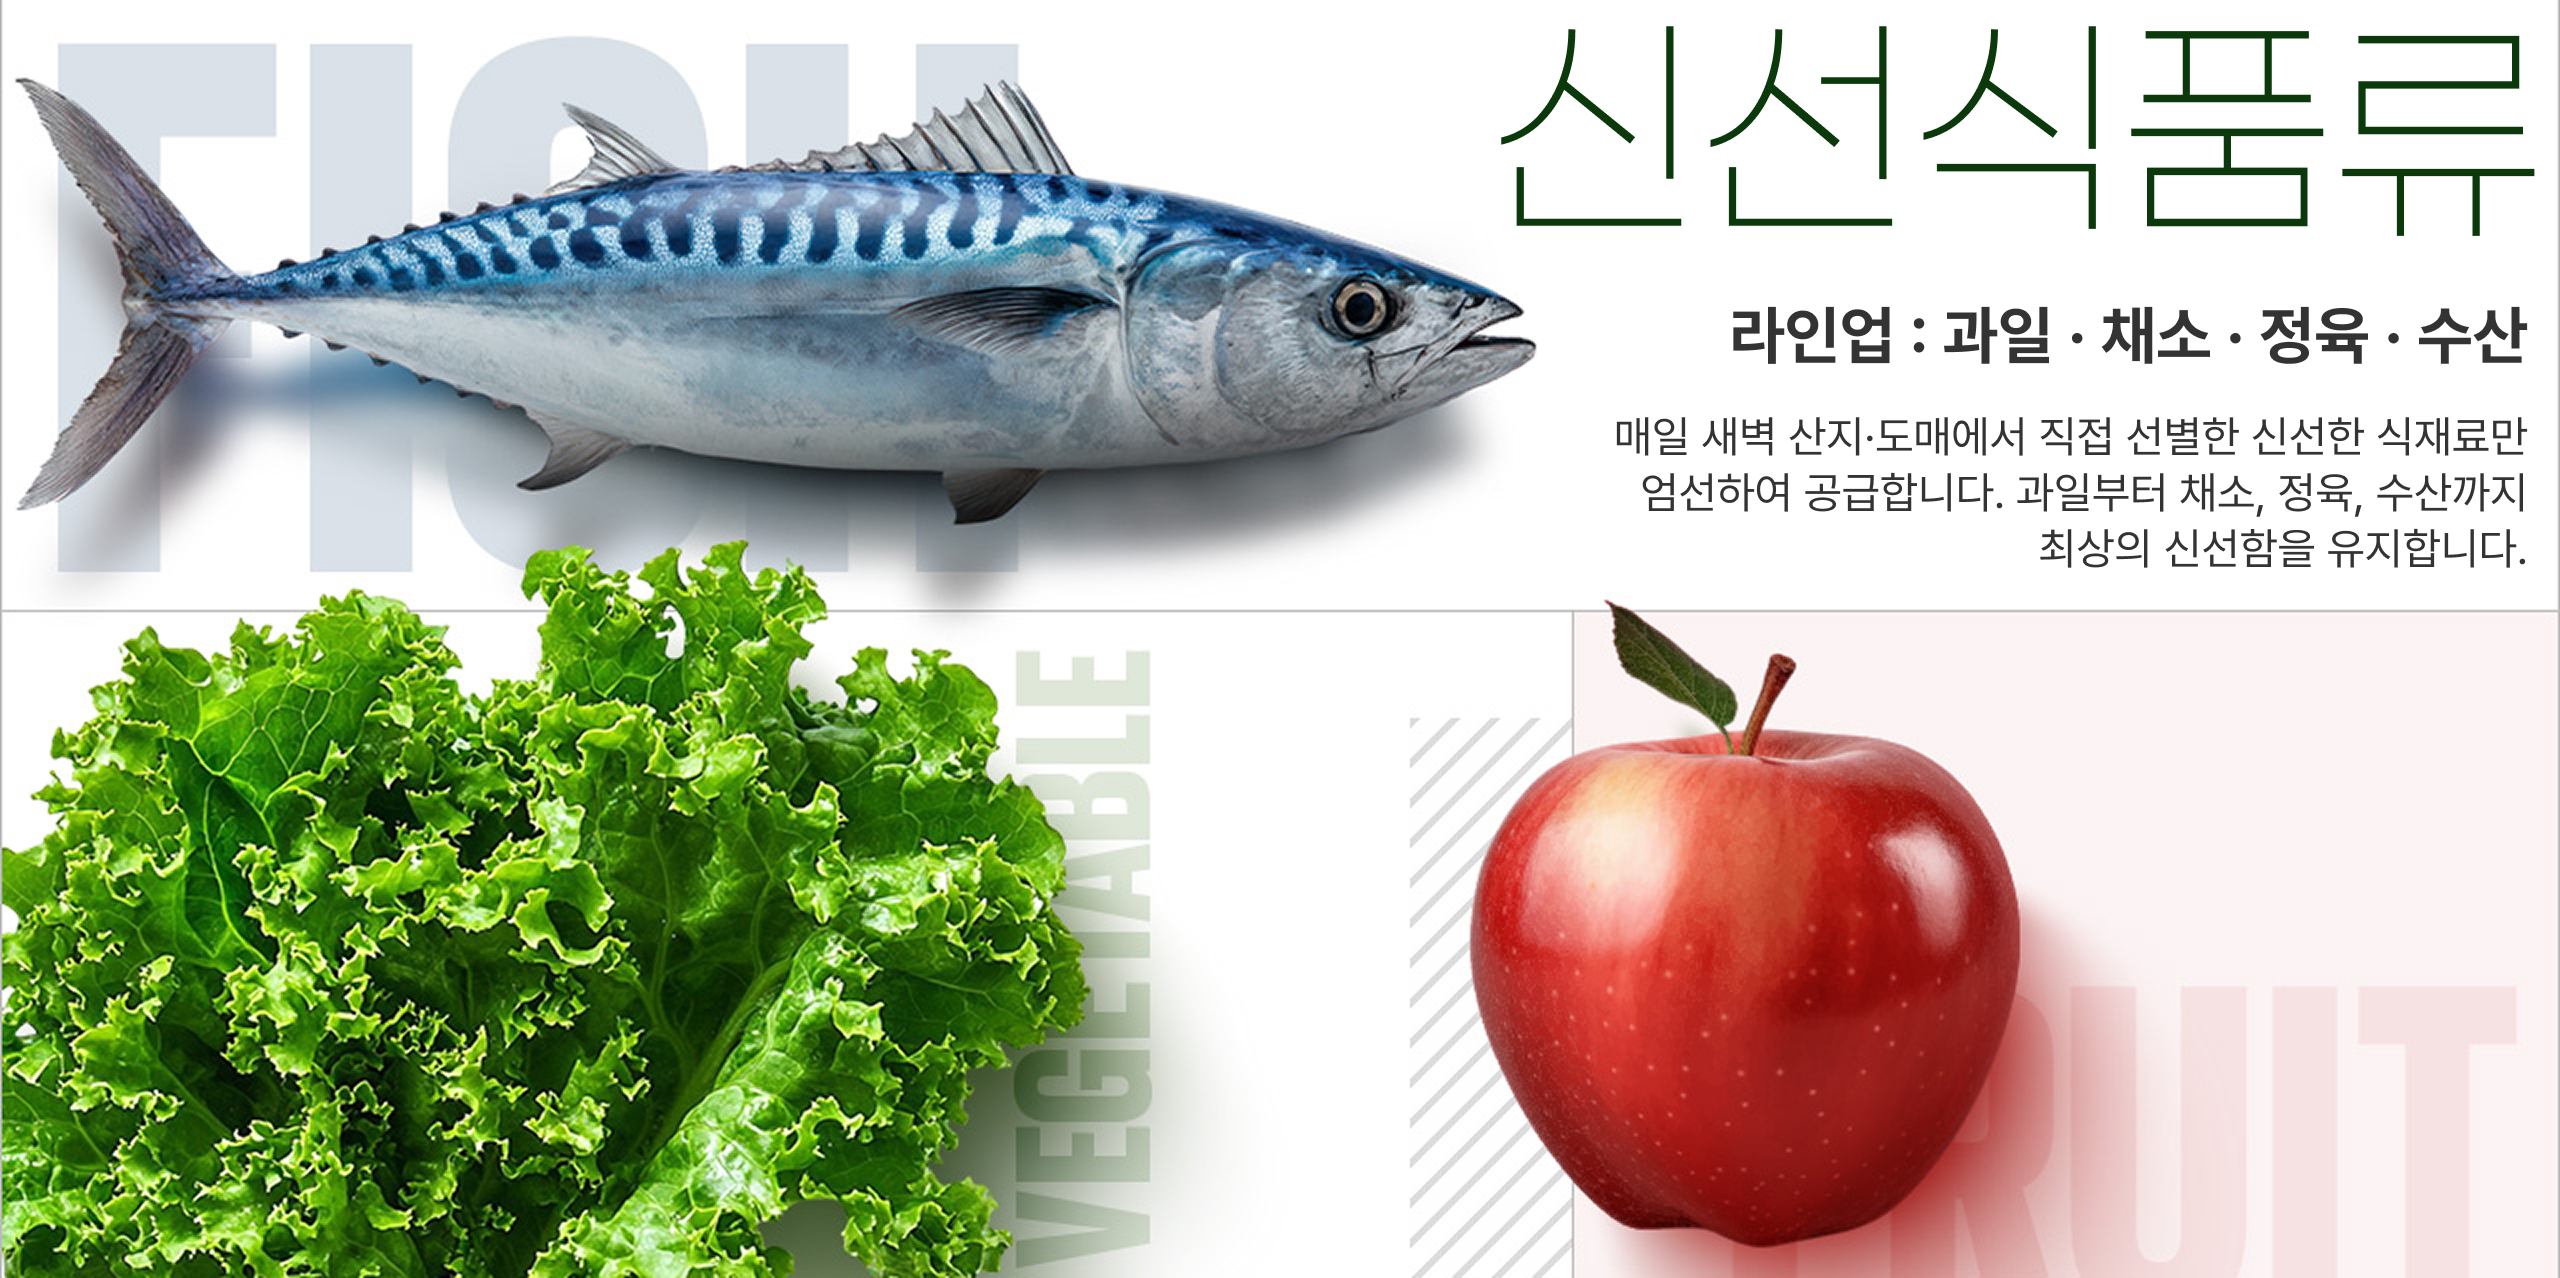
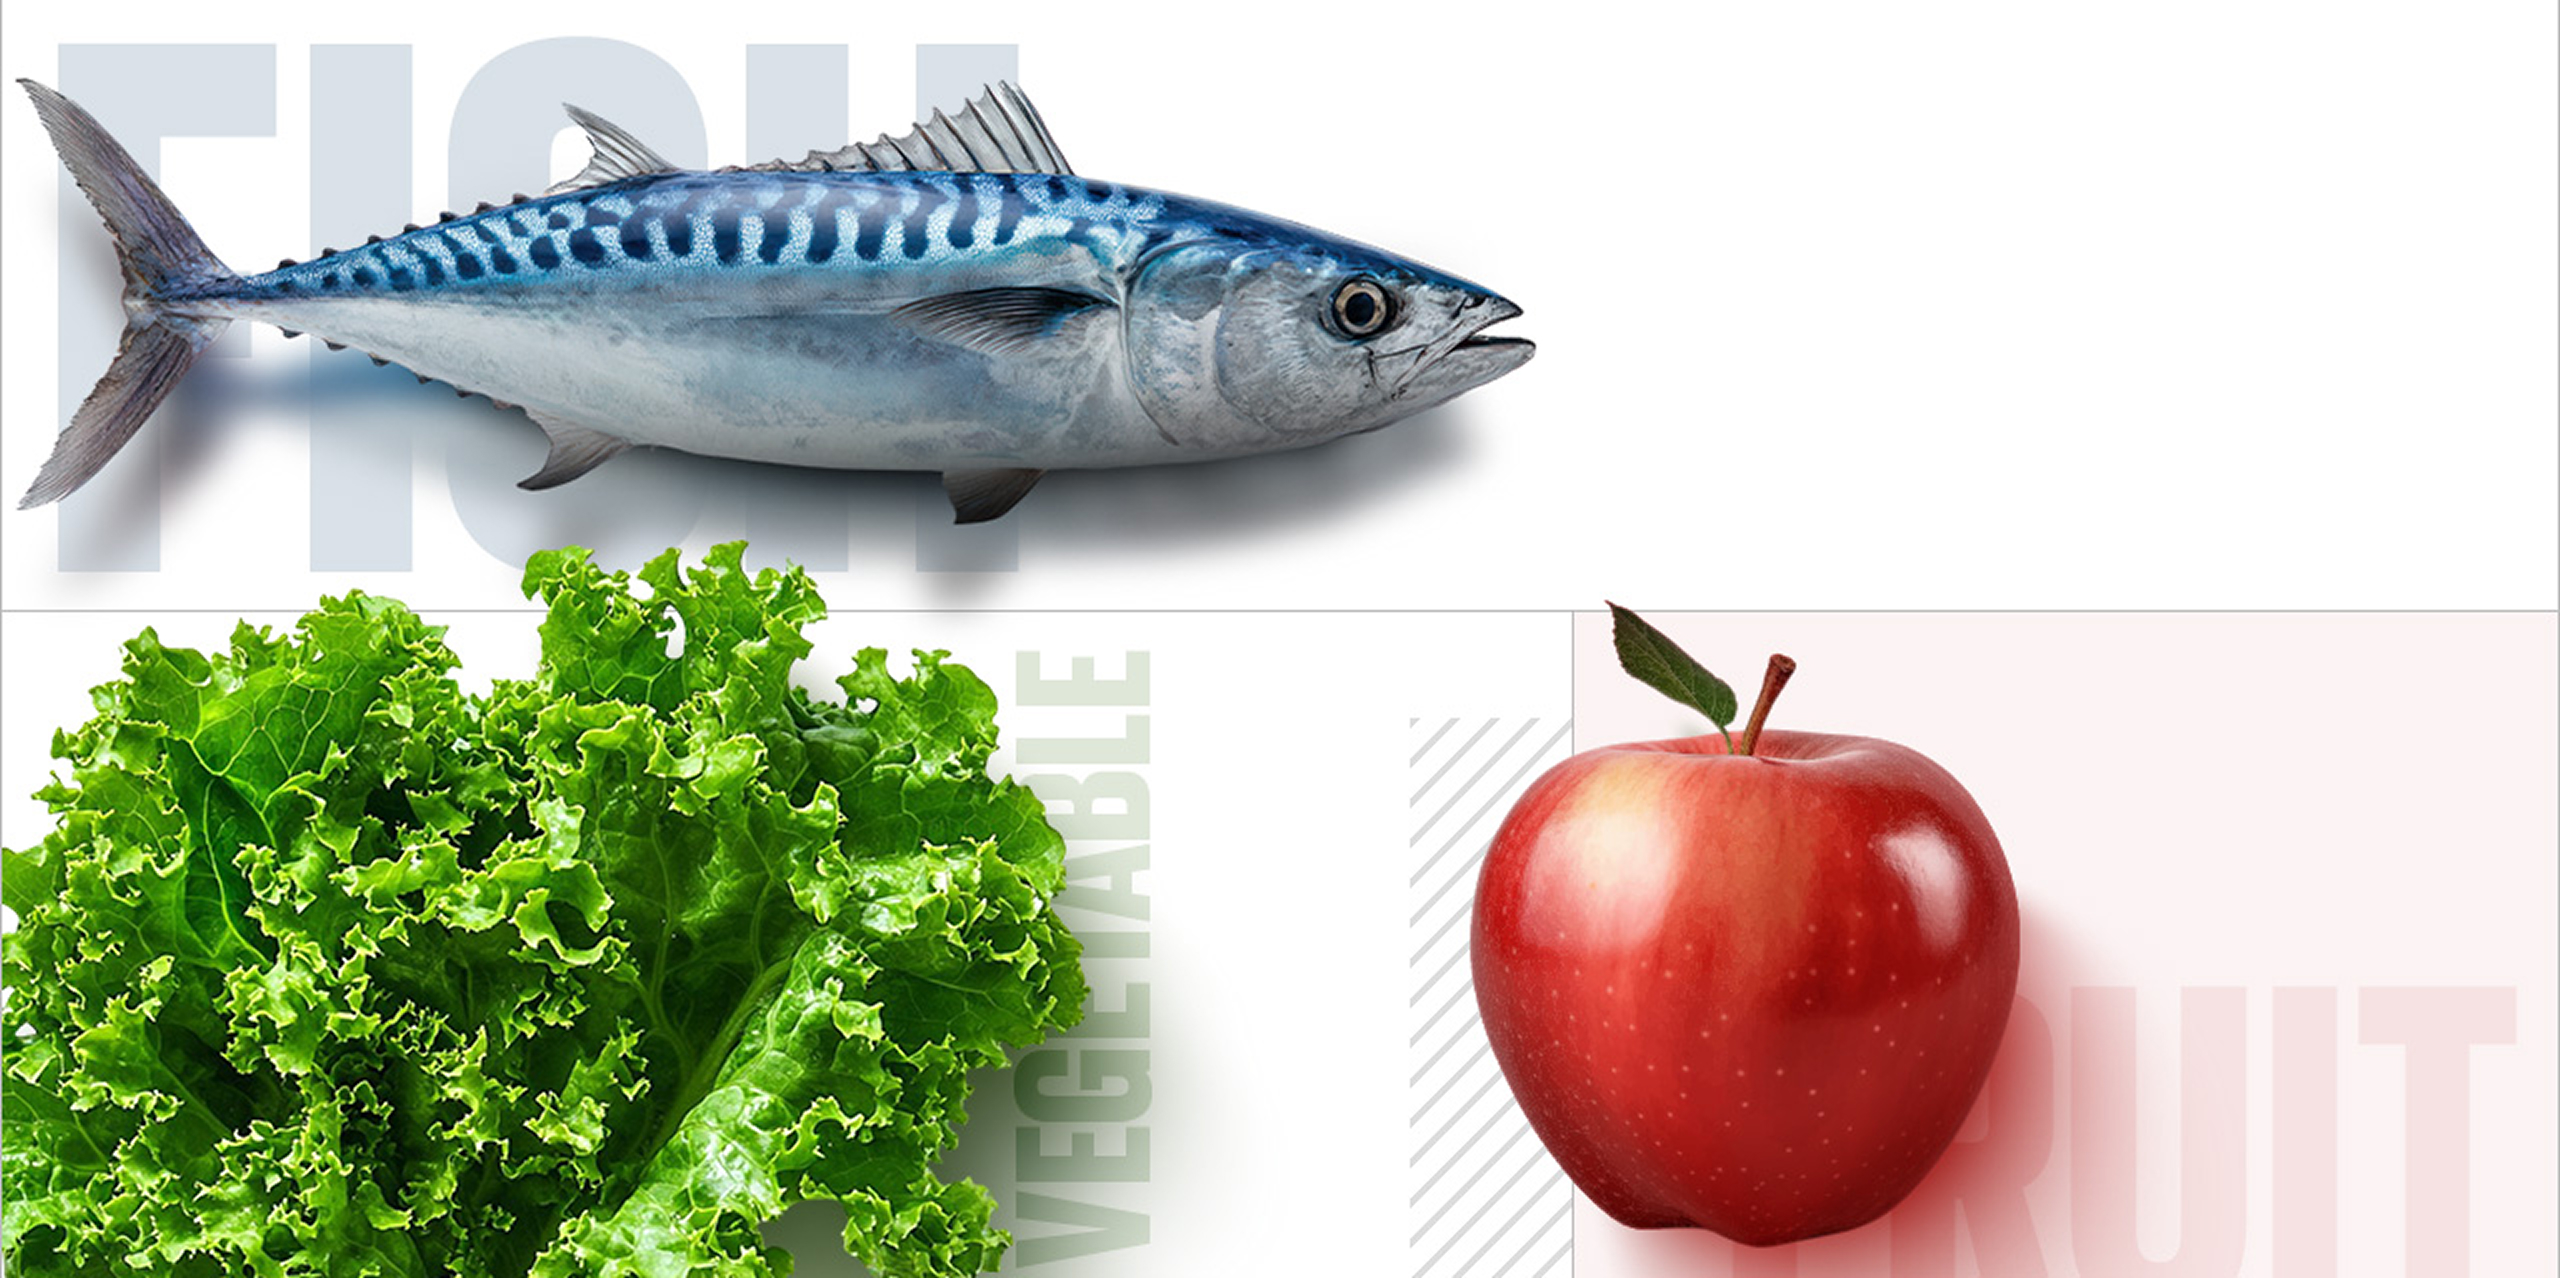
수정

diff --git a/work/chuckchuck/index.html b/work/chuckchuck/index.html
@@ -198,25 +198,82 @@
                 <div class="inner" data-aos="fade-up">
 					<div class="swiper ms3_swiper">
 						<div class="swiper-wrapper">
-							<div class="swiper-slide item">
-								<img src="img/ms3_slide1_pc.jpg" alt="" class="img pc">
-								<img src="img/ms3_slide1_mob.jpg" alt="" class="img tablet">
+							<div class="swiper-slide item item1">
+								<div class="bgbox">
+									<img src="img/ms3_slide1_pc.jpg" alt="" class="img pc">
+									<img src="img/ms3_slide1_mob.jpg" alt="" class="img tablet">
+								</div>
+								<div class="txtbox">
+									<p class="tit">신선식품류</p>
+									<p class="sub">라인업 : 과일 · 채소 · 정육 · 수산</p>
+									<p class="desc">
+										매일 새벽 산지·도매에서 직접 선별한 신선한 식재료만
+										<br>
+										엄선하여 공급합니다. 과일부터 채소, 정육, 수산까지 
+										<br>
+										최상의 신선함을 유지합니다.
+									</p>
+								</div>
 							</div>
-							<div class="swiper-slide item">
-								<img src="img/ms3_slide2_pc.jpg" alt="" class="img pc">
-								<img src="img/ms3_slide2_mob.jpg" alt="" class="img tablet">
+							<div class="swiper-slide item item2">
+								<div class="bgbox">
+									<img src="img/ms3_slide2_pc.jpg" alt="" class="img pc">
+									<img src="img/ms3_slide2_mob.jpg" alt="" class="img tablet">
+								</div>
+								<div class="txtbox">
+									<p class="tit">밀키트</p>
+									<p class="sub">라인업 : 에프요리 · 국밥 · 불고기 · 뚝배기류</p>
+									<p class="desc">
+										전문 셰프 레시피 기반의 즉석 간편식으로, <br>
+										바쁜 일상 속에서도 간편하게 완성도 높은 한 끼를 <br>
+										즐길 수 있도록 구성된 밀키트입니다.
+									</p>
+								</div>
 							</div>
-							<div class="swiper-slide item">
-								<img src="img/ms3_slide3_pc.jpg" alt="" class="img pc">
-								<img src="img/ms3_slide3_mob.jpg" alt="" class="img tablet">
+							<div class="swiper-slide item item3">
+								<div class="bgbox">
+									<img src="img/ms3_slide3_pc.jpg" alt="" class="img pc">
+									<img src="img/ms3_slide3_mob.jpg" alt="" class="img tablet">
+								</div>
+								<div class="txtbox">
+									<p class="tit">식자재</p>
+									<p class="sub">라인업 : 곡물 · 견과 · 통조림 · 장 · 소스 · 오일류</p>
+									<p class="desc">
+										다양한 요리에 활용되는 기본 식자재를 폭넓게 제공합니다.
+										<br>
+										안정적인 품질 관리로 믿고 사용할 수 있는 식재료입니다.
+									</p>
+								</div>
 							</div>
-							<div class="swiper-slide item">
-								<img src="img/ms3_slide4_pc.jpg" alt="" class="img pc">
-								<img src="img/ms3_slide4_mob.jpg" alt="" class="img tablet">
+							<div class="swiper-slide item item4">
+								<div class="bgbox">
+									<img src="img/ms3_slide4_pc.jpg" alt="" class="img pc">
+									<img src="img/ms3_slide4_mob.jpg" alt="" class="img tablet">
+								</div>
+								<div class="txtbox">
+									<p class="tit">간식류</p>
+									<p class="sub">라인업 : 과자 · 떡 · 쿠키 · 케이크류</p>
+									<p class="desc">
+										간편하게 즐길 수 있는 달콤한 디저트부터 <br>
+										든든한 한 입 간식까지 다양하게 구성해 <br>
+										남녀노소 누구나 좋아하는 스낵 라인업을 제공합니다.
+									</p>
+								</div>
 							</div>
-							<div class="swiper-slide item">
-								<img src="img/ms3_slide5_pc.jpg" alt="" class="img pc">
-								<img src="img/ms3_slide5_mob.jpg" alt="" class="img tablet">
+							<div class="swiper-slide item item5">
+								<div class="bgbox">
+									<img src="img/ms3_slide5_pc.jpg" alt="" class="img pc">
+									<img src="img/ms3_slide5_mob.jpg" alt="" class="img tablet">
+								</div>
+								<div class="txtbox">
+									<p class="tit">생활용품</p>
+									<p class="sub">라인업 : 주방용품 · 세제 · 청소용품 등</p>
+									<p class="desc">
+										생활 속 필수품을 한곳에서 편리하게 구매할 수 있도록 <br>
+										주방, 세탁, 청소 관련 상품을 엄선했습니다. <br>
+										일상에 필요한 실용적인 제품만 선별합니다.
+									</p>
+								</div>
 							</div>
 						</div>
 					</div>

diff --git a/work/chuckchuck/css/style.css b/work/chuckchuck/css/style.css
@@ -43,7 +43,24 @@
 .ms3 .ms3_swiper .item::after {content: ""; position: absolute; top: 0; width: 1px; height: 100%; background: #fff; z-index: 10;}
 .ms3 .ms3_swiper .item::before {left: 0;}
 .ms3 .ms3_swiper .item::after {right: 0;}
-.ms3 .ms3_swiper .item .img {width: 100%;}
+.ms3 .ms3_swiper .item .bgbox {width: 100%; display: flex; align-items: center; justify-content: center;}
+.ms3 .ms3_swiper .item .bgbox .img {width: 100%; height: 100%; object-fit: cover;}
+.ms3 .ms3_swiper .item .txtbox { position: absolute;  display: flex; flex-direction: column;}
+.ms3 .ms3_swiper .item .txtbox .tit { font-family: var(--second-family);  font-weight: 100; font-size: 6.875rem; line-height: 100%; text-transform: uppercase; color: #0b390b; margin-bottom: 0.938rem; }
+.ms3 .ms3_swiper .item .txtbox .sub { font-weight: 700; font-size: 2rem; line-height: 100%; text-transform: uppercase; color: #333;  margin-bottom: 0.563rem;}
+.ms3 .ms3_swiper .item .txtbox .desc { font-weight: 400;  font-size: 1.375rem;  line-height: 127%; text-transform: uppercase; color: #333;}
+.ms3 .ms3_swiper .item1 .txtbox {text-align: right; top: 0.25rem; right: 0.5rem;}
+.ms3 .ms3_swiper .item1 .txtbox .tit {margin-bottom: 1.75rem; font-size: 7.5rem;}
+.ms3 .ms3_swiper .item1 .txtbox .sub {margin-bottom: 1.25rem; padding-right: 0.5rem;}
+.ms3 .ms3_swiper .item1 .txtbox .desc {padding-right: 0.5rem;}
+.ms3 .ms3_swiper .item2 .txtbox {text-align: left; top: 0.938rem; left: 1.188rem;}
+.ms3 .ms3_swiper .item2 .txtbox .sub,
+.ms3 .ms3_swiper .item2 .txtbox .desc {padding-left: 0.313rem;}
+.ms3 .ms3_swiper .item3 .txtbox {text-align: left; top: 4.188rem; left: 44.25%;}
+.ms3 .ms3_swiper .item3 .txtbox .sub,
+.ms3 .ms3_swiper .item3 .txtbox .desc {padding-left: 0.313rem;}
+.ms3 .ms3_swiper .item4 .txtbox {text-align: right; top: 1.375rem; right: 2.625rem;}
+.ms3 .ms3_swiper .item5 .txtbox {text-align: left; top: 2.313rem; left: 2.375rem;}
 .ms3 .ms3_controls { position: absolute; left: 50%; top: calc(50% - 1rem); transform: translate(-50%, -50%);  width: calc(100% + 5.625rem * 2 - 16rem);}
 
 .ms4 {background: url(../img/ms4_bg.jpg) no-repeat center/cover; padding: 6.25rem 0 3.75rem;}

diff --git a/work/chuckchuck/css/responsive.css b/work/chuckchuck/css/responsive.css
@@ -17,7 +17,15 @@
 
 @media screen and (max-width: 1380px) {    
 
-  	html {font-size: 14.5px !important;}        
+  	html {font-size: 14.5px !important;}      
+	
+	
+	.ms3 .ms3_swiper .item .txtbox .tit {font-size: 6rem;}
+	.ms3 .ms3_swiper .item .txtbox .sub { font-size: 1.875rem;}
+	.ms3 .ms3_swiper .item .txtbox .desc { font-size: 1.25rem;}
+	.ms3 .ms3_swiper .item1 .txtbox { top: 1.5rem; right: 1rem;} 
+	.ms3 .ms3_swiper .item1 .txtbox .tit { font-size: 6rem;margin-bottom: 1.5rem;}
+	.ms3 .ms3_swiper .item1 .txtbox .sub {  margin-bottom: 0.563rem;}
 
 }
 
@@ -169,7 +177,22 @@
 	.ms3 .ms3_marquee .marquee .marquee_group .item { width: 52.524rem;}
 	.ms3 .ms3_swiper::before, .ms3 .ms3_swiper::after {display: none;}
 	.ms3 .ms3_swiper .item::before, .ms3 .ms3_swiper .item::after {display: none;}
+	.ms3 .ms3_swiper .item .txtbox .tit { font-size: 4.5rem; margin-bottom: 0.5rem; }
+	.ms3 .ms3_swiper .item .txtbox .sub {font-size: 1.6rem; margin-bottom: 0.8rem;}
+	.ms3 .ms3_swiper .item .txtbox .desc { font-size: 1.2rem; line-height: 150%; }
+	.ms3 .ms3_swiper .item1 .txtbox { top: 0.8rem; right: 1rem; }
+	.ms3 .ms3_swiper .item1 .txtbox .tit { font-size: 4.5rem; margin-bottom: 0.5rem; }
+	.ms3 .ms3_swiper .item1 .txtbox .sub { margin-bottom: 0.8rem; padding-right: 0.2rem; }
 	.ms3 .ms3_controls { top: 57.5%; width: 100%;}
+	.ms3 .ms3_swiper .item1 .txtbox .desc { padding-right: 0.2rem;}
+	.ms3 .ms3_swiper .item2 .txtbox { top: 0.8rem; left: 1.5rem;}
+	.ms3 .ms3_swiper .item2 .txtbox .sub, 
+	.ms3 .ms3_swiper .item2 .txtbox .desc {padding-left: 0;}	
+	.ms3 .ms3_swiper .item3 .txtbox { top: 0.8rem; left: 1.5rem;}
+	.ms3 .ms3_swiper .item3 .txtbox .sub,
+	.ms3 .ms3_swiper .item3 .txtbox .desc {padding-left: 0;}
+	.ms3 .ms3_swiper .item4 .txtbox { top: 0.8rem; right:1.1rem;}
+	.ms3 .ms3_swiper .item5 .txtbox { top: 0.8rem; left: 1.5rem;}
 
 	.ms4 { background-image: url(../img/ms4_bg_mob.jpg); padding: 3.6rem 0 5rem;}
 	.ms4 .titbox { margin-bottom: 3.6rem;}
